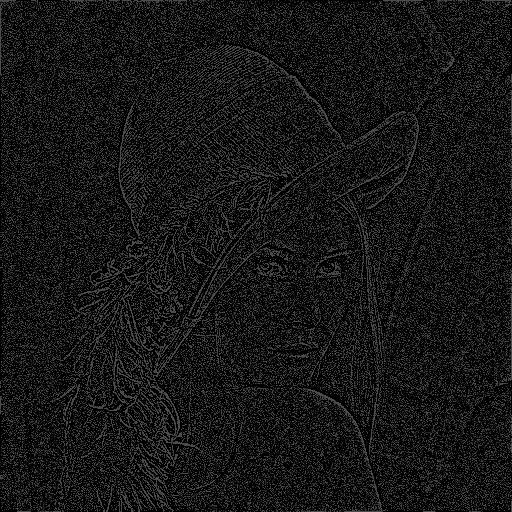
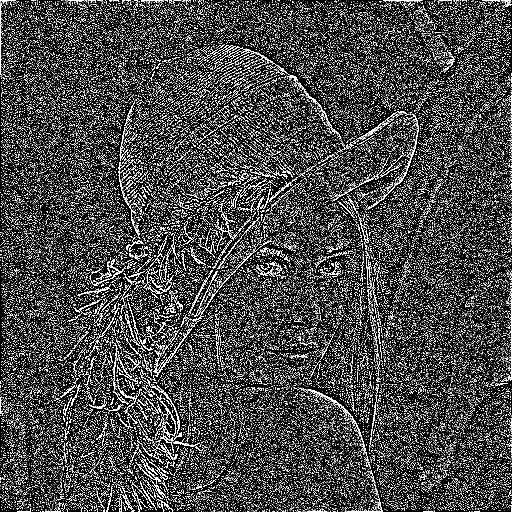
Gaussian convolution

diff --git a/TP6/output/tp6.tex b/TP6/output/tp6.tex
@@ -10,7 +10,6 @@
 \usepackage{listings} % pour les listings de code %
 \usepackage{helvet} % police helvetica %
 \usepackage{graphicx}
-\usepackage{centernot}
 \usepackage{dsfont}
 \usepackage{subcaption}
 \usepackage{caption}
@@ -36,13 +35,12 @@ Dans cette partie on s'intéresse à l'information portée par la phase et le mo
 \begin{figure}[h]
 	\includegraphics[width=0.3\textwidth]{phase_swapping.jpg}
 	\includegraphics[width=0.3\textwidth]{phase_swapping_in_random.jpg}
-
 	\includegraphics[width=0.3\textwidth]{module_swapping.jpg}
 
-  \caption{A gauche la phase de lena qui a été mélangée au module de barbara. A droite la phase de lena projetée dans une image générée par une gaussienne. }
+  \caption{A gauche la phase de lena qui a été mélangée au module de barbara. A droite la phase de lena projetée dans une image générée par une gaussienne.}
 \end{figure}
 
-On constate qu'une grande partie de l'information est portée par la phase. Inversement on voit que si on transfere le module de l'image de Lena dans Barbara, on voit bien barbara (qui est quand même moins sexy). 
+On constate qu'une grande partie de l'information est portée par la phase. Inversement on voit que si on transfère le module de l'image de Lena dans Barbara, on voit bien barbara (qui est quand même moins sexy). 
 
 Néanmoins la phase seule ne suffit pas (cf figure.2) : si on transporte la phase sur une image uniforme, l'image reste inchangée après transport de phase. 
 
@@ -57,7 +55,15 @@ Néanmoins la phase seule ne suffit pas (cf figure.2) : si on transporte la phas
 On voit que le module ne porte que peu d'information mais a quand même besoin d'être présent. 
 
 
+\section{Ré-haussement des couleurs}
 
-\section{}
+\section{Changement de contraste}
 
+\section{Filtre médian}
+
+\section{Exercice}
+\subsection{TF}
+$$ f_K : \mathbb{R} \ni x \rightarrow \frac{\mathds{1}_{[0, K]}(x)}{K}, K \in \mathbb{R}_*^+ $$
+$$ \hat{f}(\xi) = \int_\mathbb{R} f(x) e^{-ix\xi}$$
+\subsection{Convolution}
 \end{document}

diff --git a/TP6/main.m b/TP6/main.m
@@ -1,3 +1,6 @@
+close all;
+clear all;
+
 disp("inversion d'image")
 
 source = double(imread('input/lena.bmp')) / 255;
@@ -41,4 +44,31 @@ moduleSwappedImg = swapModule(source, double(randn(size(source))));
 figure;title('Module swapping in grey image')
 imshow(moduleSwappedImg)
 imwrite(moduleSwappedImg, "output/module_swapping_in_grey_image.jpg")
-pause
+
+
+% Comparison of gaussian & Wiener filters for different levels of noise
+gaussianFilter(I, [1..10], 0)
+gaussianFilter(I, [3.5, 5], 0.01)
+wienerFilter(I, [1..10], [0..0.2]
+
+
+% Changement de l'espace de couleurs
+I_hsv = rbg2hsv(I);
+
+% Boost de la saturation
+I_hsv_boosted = I_hsv;
+I_hsv_boosted(:, :, 2) *= 0.5;
+
+% Diminution de la saturation
+I_hsv_unsat = I_hsv;
+I_hsv_unsat(:, :, 2) /= 2;
+
+
+% Contrast change
+% 1. Affine feature scaling
+% 2. Interpolation lineaire?
+
+% Filtre median
+w = 3;
+pause;
+

diff --git a/TP6/swapPhase.m b/TP6/swapPhase.m
@@ -3,7 +3,6 @@ function image = swapPhase(src, dest)
   if (sum(size(src) != size(dest)) > 0 )
     error('images must have same sizes')
     return
-
   end
 
   src = fft2(src);
